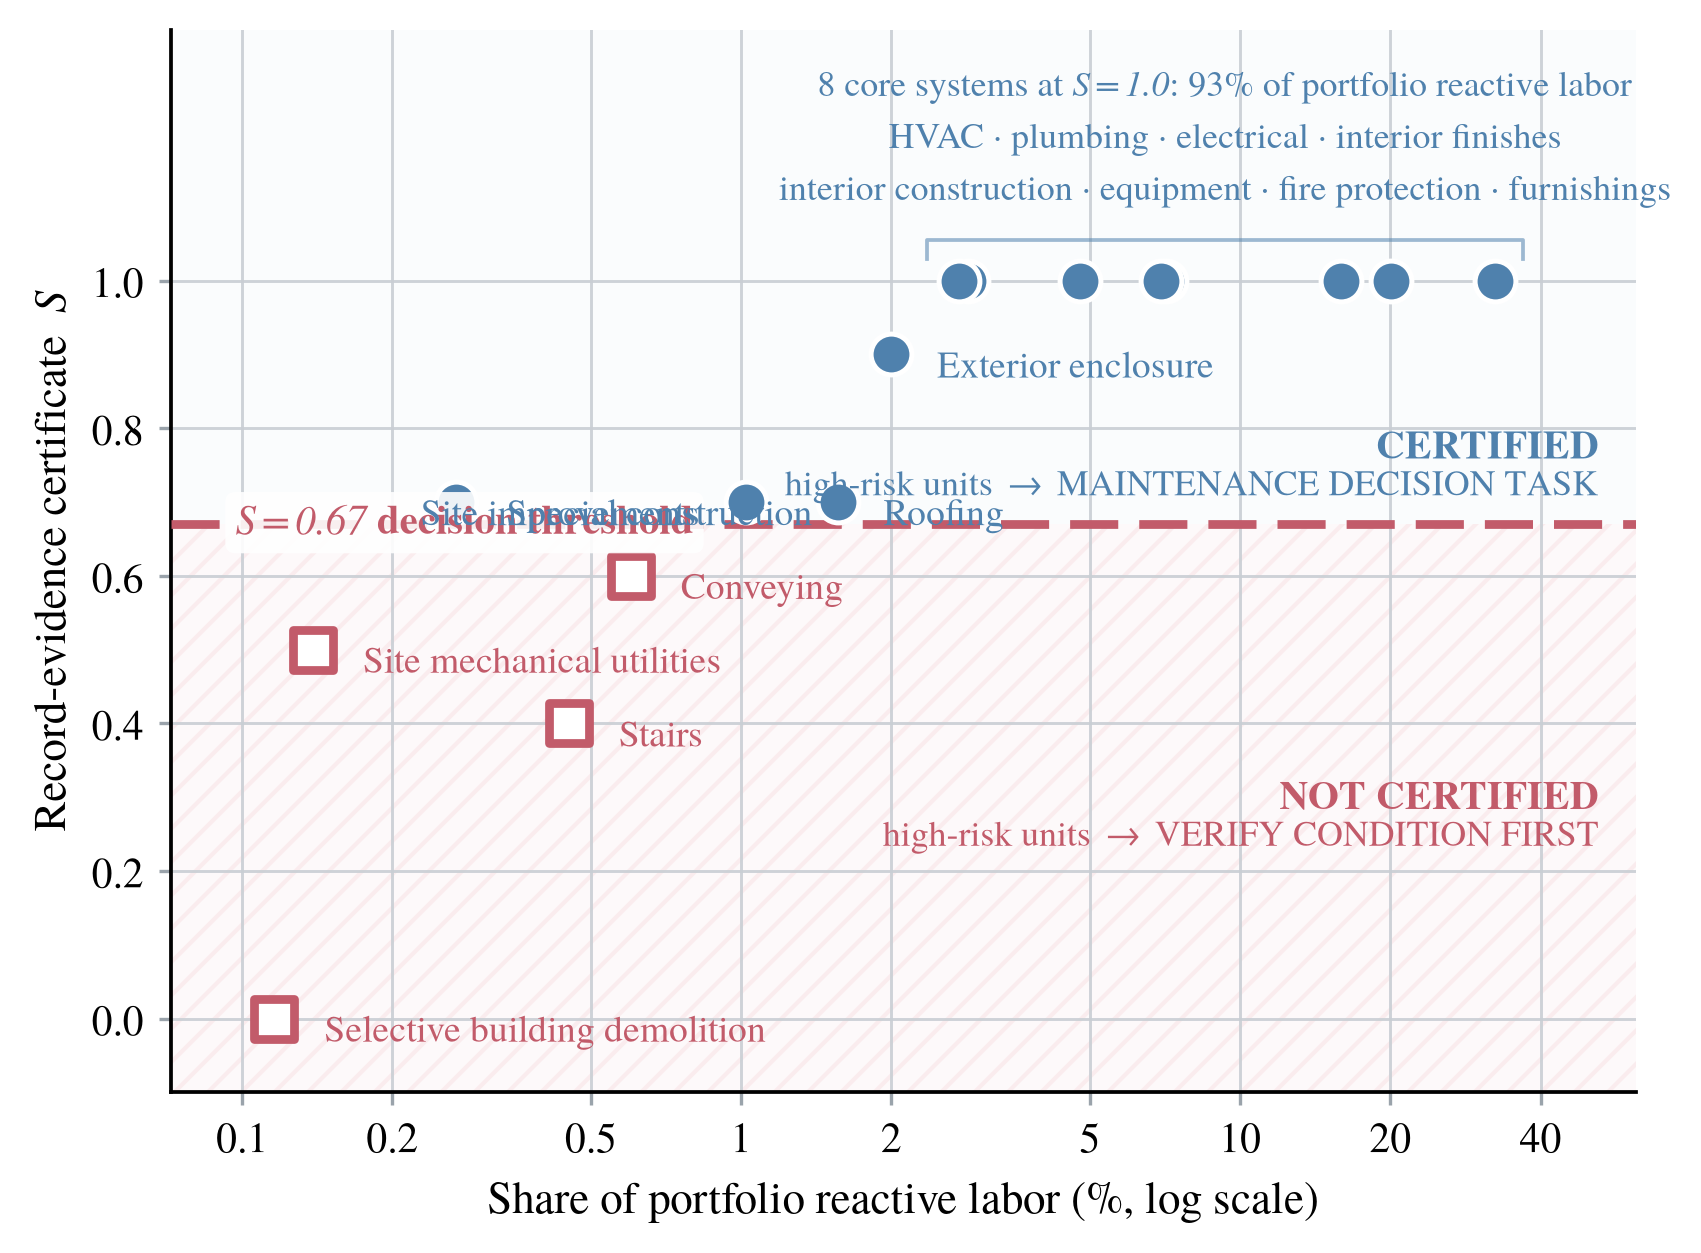
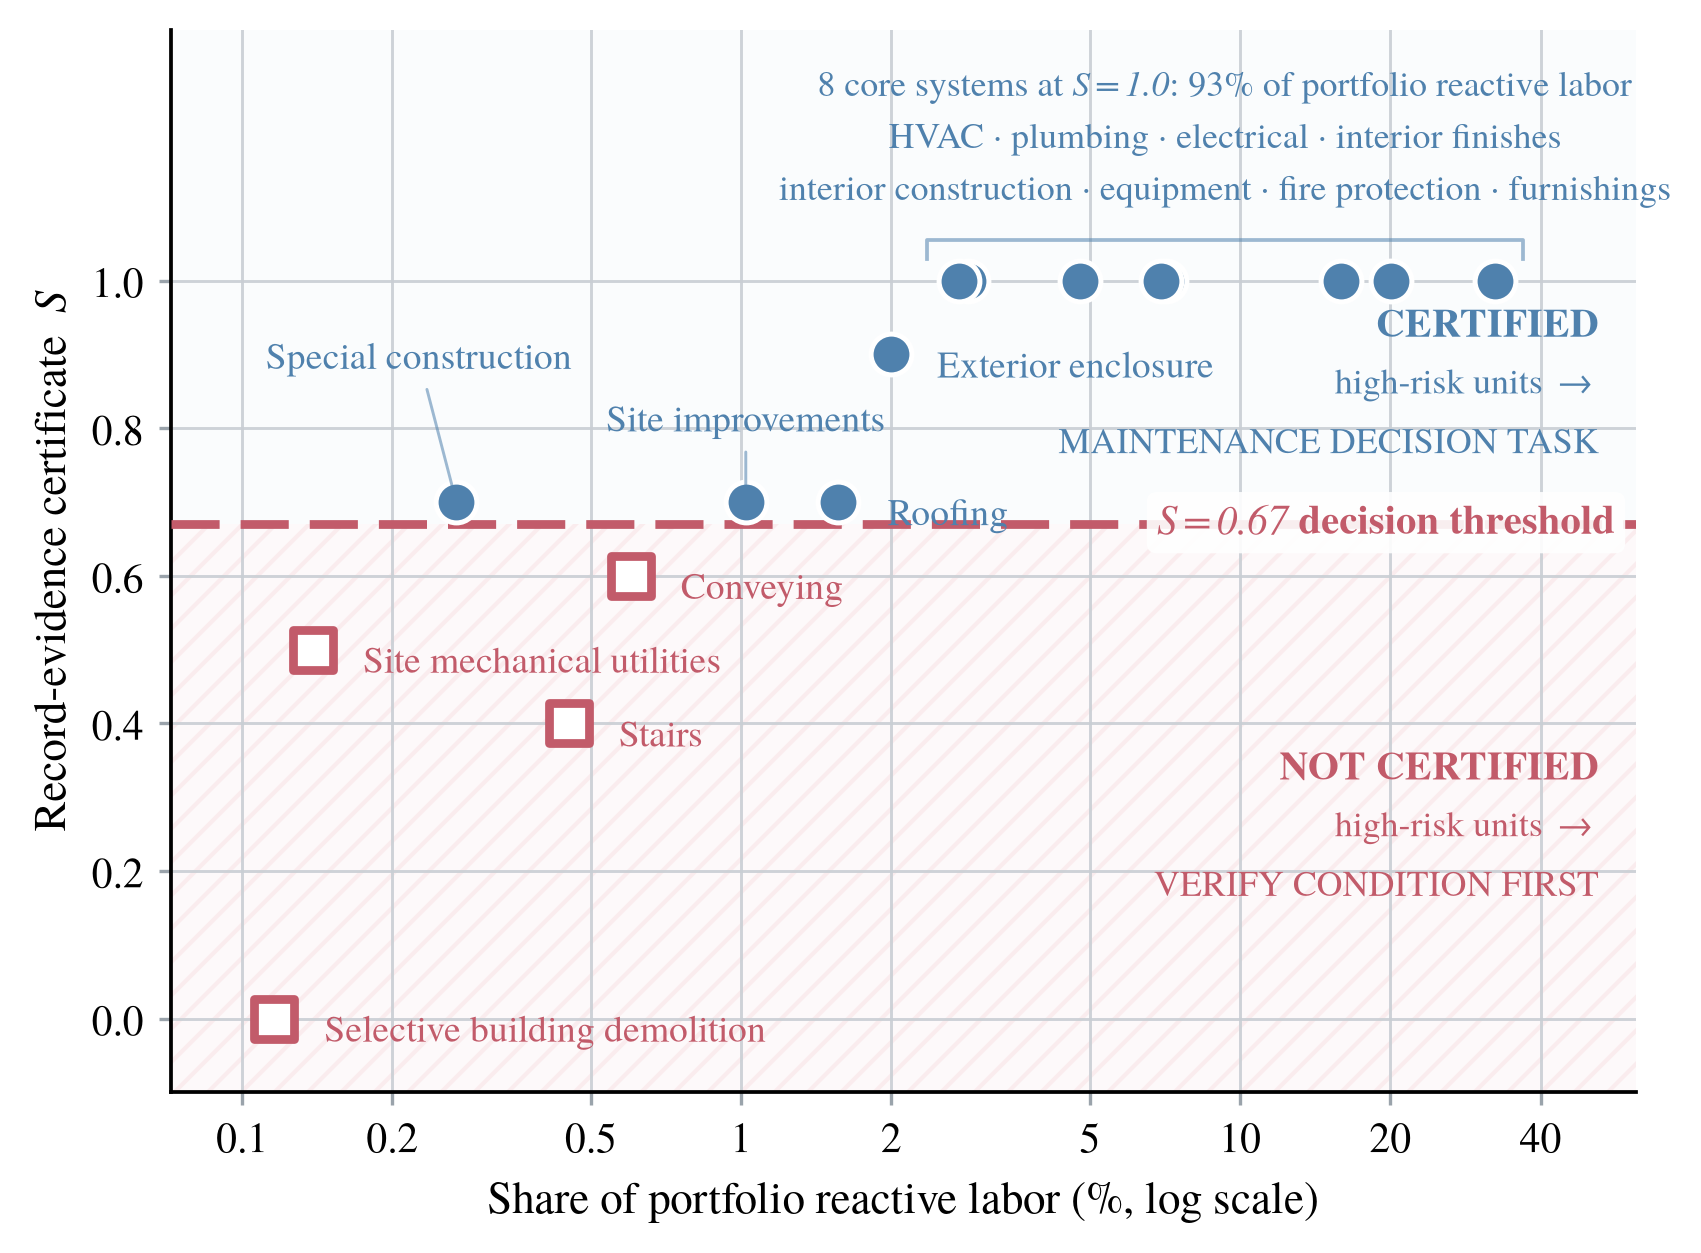
Read routing shares for the sensitivity panel from the corrected pipeline
Panel (a) of the CEPI sensitivity figure took its four route shares from
cepi_summary.json, whose class_shares predate the double-nesting, decision-time
ranking and transfer-cap corrections. It therefore reported 10.3/0.1/7.6/81.9
against the 9.7/0.4/18.8/71.2 the routing table gives. It now reads
manuscript_numbers.json, which is the single source for every routed quantity.

Also spaces the priority map so no label overlaps another: the three systems at
S=0.70 are stacked with leader lines, the threshold label moves to the right end
of its own line, and each region banner is broken over three lines.

diff --git a/scripts/38_cepi_figures.py b/scripts/38_cepi_figures.py
@@ -109,7 +109,11 @@ def priority_map():
     ax.axhspan(-0.12, 0.67, facecolor="none", edgecolor=CORAL, alpha=0.16,
                hatch="///", lw=0.0, zorder=0)
     ax.axhline(0.67, color=CORAL_D, lw=2.1, ls=(0, (5.5, 2.4)), zorder=3)
-    ax.text(0.097, 0.672, "$S = 0.67$ decision threshold", ha="left", va="center",
+    # the threshold label sits at the right end of its own line: the left end is
+    # where the three borderline systems cluster, and a label there collides
+    # with their markers.
+    ax.text(0.986, 0.672, "$S = 0.67$ decision threshold",
+            transform=ax.get_yaxis_transform(), ha="right", va="center",
             fontsize=9.8, color=CORAL_D, fontweight="bold", zorder=6,
             bbox=dict(boxstyle="round,pad=0.25", fc="white", ec="none", alpha=0.9))
 
@@ -117,17 +121,23 @@ def priority_map():
     # (no proxy glyphs: they would read as data points; the marker shape is
     #  identified by the region each banner sits in)
     ytr = ax.get_yaxis_transform()  # x in axes fraction, y in data units
-    ax.text(0.975, 0.775, "CERTIFIED", transform=ytr, ha="right", va="center",
-            fontsize=9.6, fontweight="bold", color=NAVY_D, zorder=6)
-    ax.text(0.975, 0.722, "high-risk units $\\rightarrow$ MAINTENANCE DECISION TASK",
-            transform=ytr, ha="right", va="center", fontsize=8.6, color=NAVY_D, zorder=6)
+    # Each banner is broken over three short lines, right-aligned into the empty
+    # right-hand part of its own region.  One long line would run back into the
+    # borderline cluster at S = 0.70, and 0.08 in S is the smallest line pitch
+    # that keeps 9.6 pt type from touching the line below it.
+    for y, s, fs, bold in ((0.94, "CERTIFIED", 9.6, "bold"),
+                           (0.86, "high-risk units $\\rightarrow$", 8.6, "normal"),
+                           (0.78, "MAINTENANCE DECISION TASK", 8.6, "normal")):
+        ax.text(0.975, y, s, transform=ytr, ha="right", va="center",
+                fontsize=fs, fontweight=bold, color=NAVY_D, zorder=6)
 
     # placed low-right, in the empty part of the uncertified region: every
     # uncertified system sits at a small labour share, i.e. on the left.
-    ax.text(0.975, 0.300, "NOT CERTIFIED", transform=ytr, ha="right", va="center",
-            fontsize=9.6, fontweight="bold", color=CORAL_D, zorder=6)
-    ax.text(0.975, 0.247, "high-risk units $\\rightarrow$ VERIFY CONDITION FIRST",
-            transform=ytr, ha="right", va="center", fontsize=8.6, color=CORAL_D, zorder=6)
+    for y, s, fs, bold in ((0.34, "NOT CERTIFIED", 9.6, "bold"),
+                           (0.26, "high-risk units $\\rightarrow$", 8.6, "normal"),
+                           (0.18, "VERIFY CONDITION FIRST", 8.6, "normal")):
+        ax.text(0.975, y, s, transform=ytr, ha="right", va="center",
+                fontsize=fs, fontweight=bold, color=CORAL_D, zorder=6)
 
     # ---- the systems -----------------------------------------------------
     ax.scatter(pm.loc[suff, "x"], pm.loc[suff, "S"], marker="o", s=96,
@@ -158,23 +168,30 @@ def priority_map():
 
     # ---- direct labels: every record-insufficient system, plus the four
     #      record-sufficient systems that sit closest to the threshold -----
-    off = {   # (dx pt, dy pt, ha, va)
-        "Exterior enclosure": (11, -3, "left", "center"),
-        "Site improvements": (-11, -3, "right", "center"),
-        "Roofing": (11, -3, "left", "center"),
-        "Special construction": (12, -3, "left", "center"),
-        "Conveying": (12, -3, "left", "center"),
-        "Stairs": (12, -3, "left", "center"),
-        "Site mechanical utilities": (12, -3, "left", "center"),
-        "Selective building demolition": (12, -3, "left", "center"),
+    # Special construction, site improvements and roofing all sit at S = 0.70.
+    # Their labels are stacked at three different heights, each with a leader
+    # line, because side-by-side placement makes them overlap each other.
+    off = {   # (dx pt, dy pt, ha, va, leader)
+        "Exterior enclosure": (11, -3, "left", "center", False),
+        "Roofing": (12, -3, "left", "center", False),
+        "Site improvements": (0, 15, "center", "bottom", True),
+        "Special construction": (-9, 30, "center", "bottom", True),
+        "Conveying": (12, -3, "left", "center", False),
+        "Stairs": (12, -3, "left", "center", False),
+        "Site mechanical utilities": (12, -3, "left", "center", False),
+        "Selective building demolition": (12, -3, "left", "center", False),
     }
     for _, r in pm.iterrows():
         if r["name"] not in off:
             continue
-        dx, dy, ha, va = off[r["name"]]
+        dx, dy, ha, va, leader = off[r["name"]]
+        colour = NAVY_D if r.S >= 0.67 else CORAL_D
+        kw = {}
+        if leader:
+            kw["arrowprops"] = dict(arrowstyle="-", color=colour, lw=0.7,
+                                    alpha=0.55, shrinkA=1.0, shrinkB=4.0)
         ax.annotate(r["name"], (r.x, r.S), xytext=(dx, dy), textcoords="offset points",
-                    ha=ha, va=va, fontsize=9.0, zorder=6,
-                    color=NAVY_D if r.S >= 0.67 else CORAL_D)
+                    ha=ha, va=va, fontsize=9.0, zorder=6, color=colour, **kw)
 
     ax.set_xscale("log")
     # lower bound set from the data with headroom, so the smallest system's
@@ -204,14 +221,17 @@ def sensitivity():
     ax_b = fig.add_subplot(gs[1, 0])
     ax_c = fig.add_subplot(gs[1, 1])
 
-    # (a) route shares under the four action labels
-    ax = ax_a
-    cls_order = ["records_informative_high_risk", "evidence_insufficient_high_risk",
-                 "watchlist", "routine_monitoring"]
+    # (a) route shares under the four action labels.
+    # Read from the corrected double-nested routing, not from cepi_summary.json,
+    # whose class_shares predate the nesting, ranking and transfer-cap
+    # corrections and are the numbers the main text no longer reports.
+    routing = json.load(open(MET / "manuscript_numbers.json"))["routing_corrected"]
+    cls_order = ["pma", "verify", "watch", "continue"]
     labels = ["OPEN MAINTENANCE\nDECISION TASK", "VERIFY CONDITION\nFIRST",
               "EVIDENCE\nWATCHLIST", "CONTINUE STANDARD\nMAINTENANCE"]
     cols = [NAVY, CORAL, AMBER, LGREY]
-    vals = [s["class_shares"][k] * 100 for k in cls_order]
+    ax = ax_a
+    vals = [routing["shares_pct"][k] for k in cls_order]
     y = np.arange(len(cls_order))[::-1]
     bars = ax.barh(y, vals, color=cols, edgecolor="white", height=0.66)
     for yi, v in zip(y, vals):
@@ -235,12 +255,20 @@ def sensitivity():
                       edgecolor="white", label=sc.replace("S<", "$S<$"))
         for b, v in zip(bars, vals):
             if v >= 100:
+                # white backing: the primary-cut rule falls on the centre bar of
+                # the top-10% group and would otherwise run through its label
                 ax.text(b.get_x() + b.get_width() / 2, v * 1.05, f"{v:,}",
-                        ha="center", fontsize=6.4, color=INK, rotation=90)
+                        ha="center", fontsize=6.4, color=INK, rotation=90,
+                        zorder=6, bbox=dict(boxstyle="square,pad=0.12",
+                                            fc="white", ec="none", alpha=0.92))
     ax.axvline(1 + 0.0, color=CORAL_D, lw=0.9, ls=(0, (3, 2)), alpha=0.55)
-    ax.text(1.02, 0.97, "primary", transform=ax.get_xaxis_transform(),
-            fontsize=7.2, color=CORAL_D, ha="left", va="top", rotation=90)
-    ax.set_yscale("log"); ax.set_ylim(8, 3e4)
+    # the marker sits above the top spine: inside the axes it lands between the
+    # rotated value labels of the two tallest bars of this group.
+    ax.annotate("primary", xy=(1.0, 1.0), xycoords=ax.get_xaxis_transform(),
+                xytext=(-2, 3), textcoords="offset points",
+                fontsize=7.2, color=CORAL_D, ha="right", va="bottom")
+    # top raised so the tallest rotated value label is not clipped by the spine
+    ax.set_yscale("log"); ax.set_ylim(8, 6e4)
     ax.set_xticks(xs); ax.set_xticklabels(rticks, fontsize=8.4)
     ax.set_xlabel("Risk cut (share of units flagged high-risk)")
     ax.set_ylabel("Verification-queue size (units, log)")
